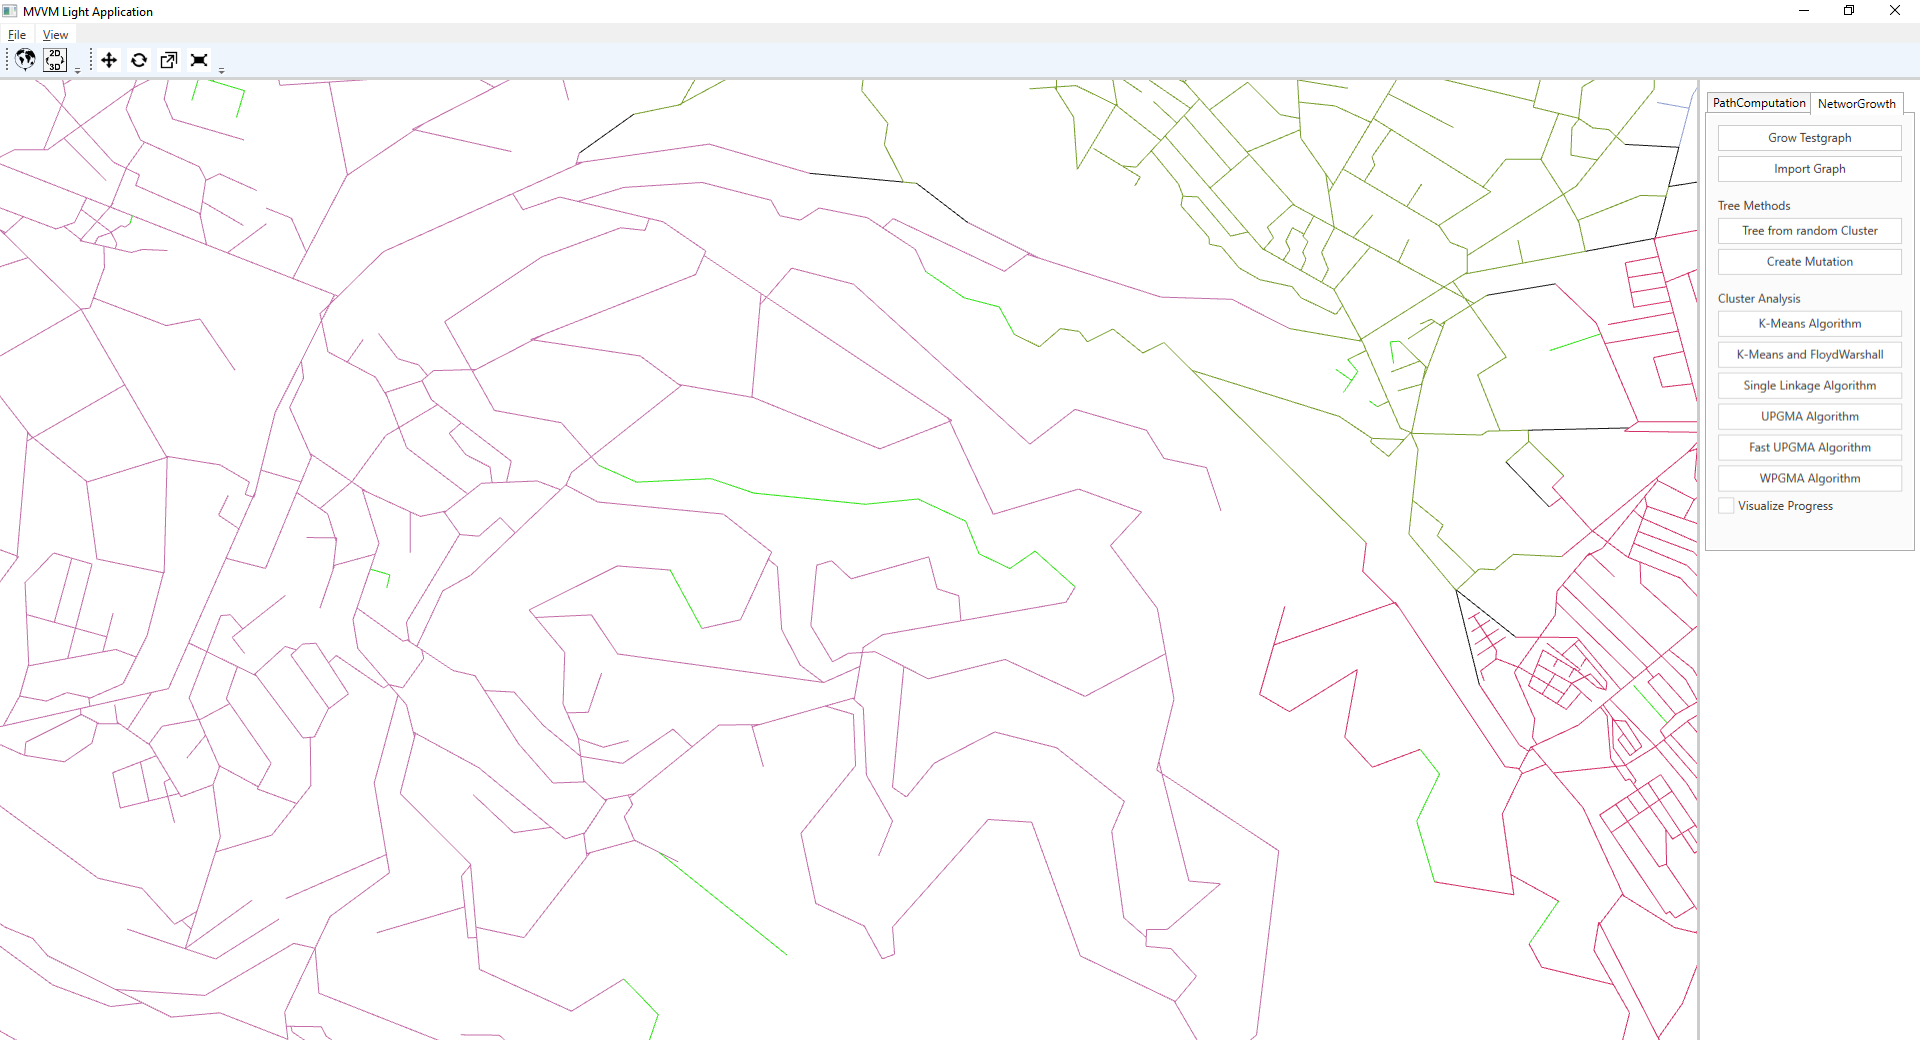
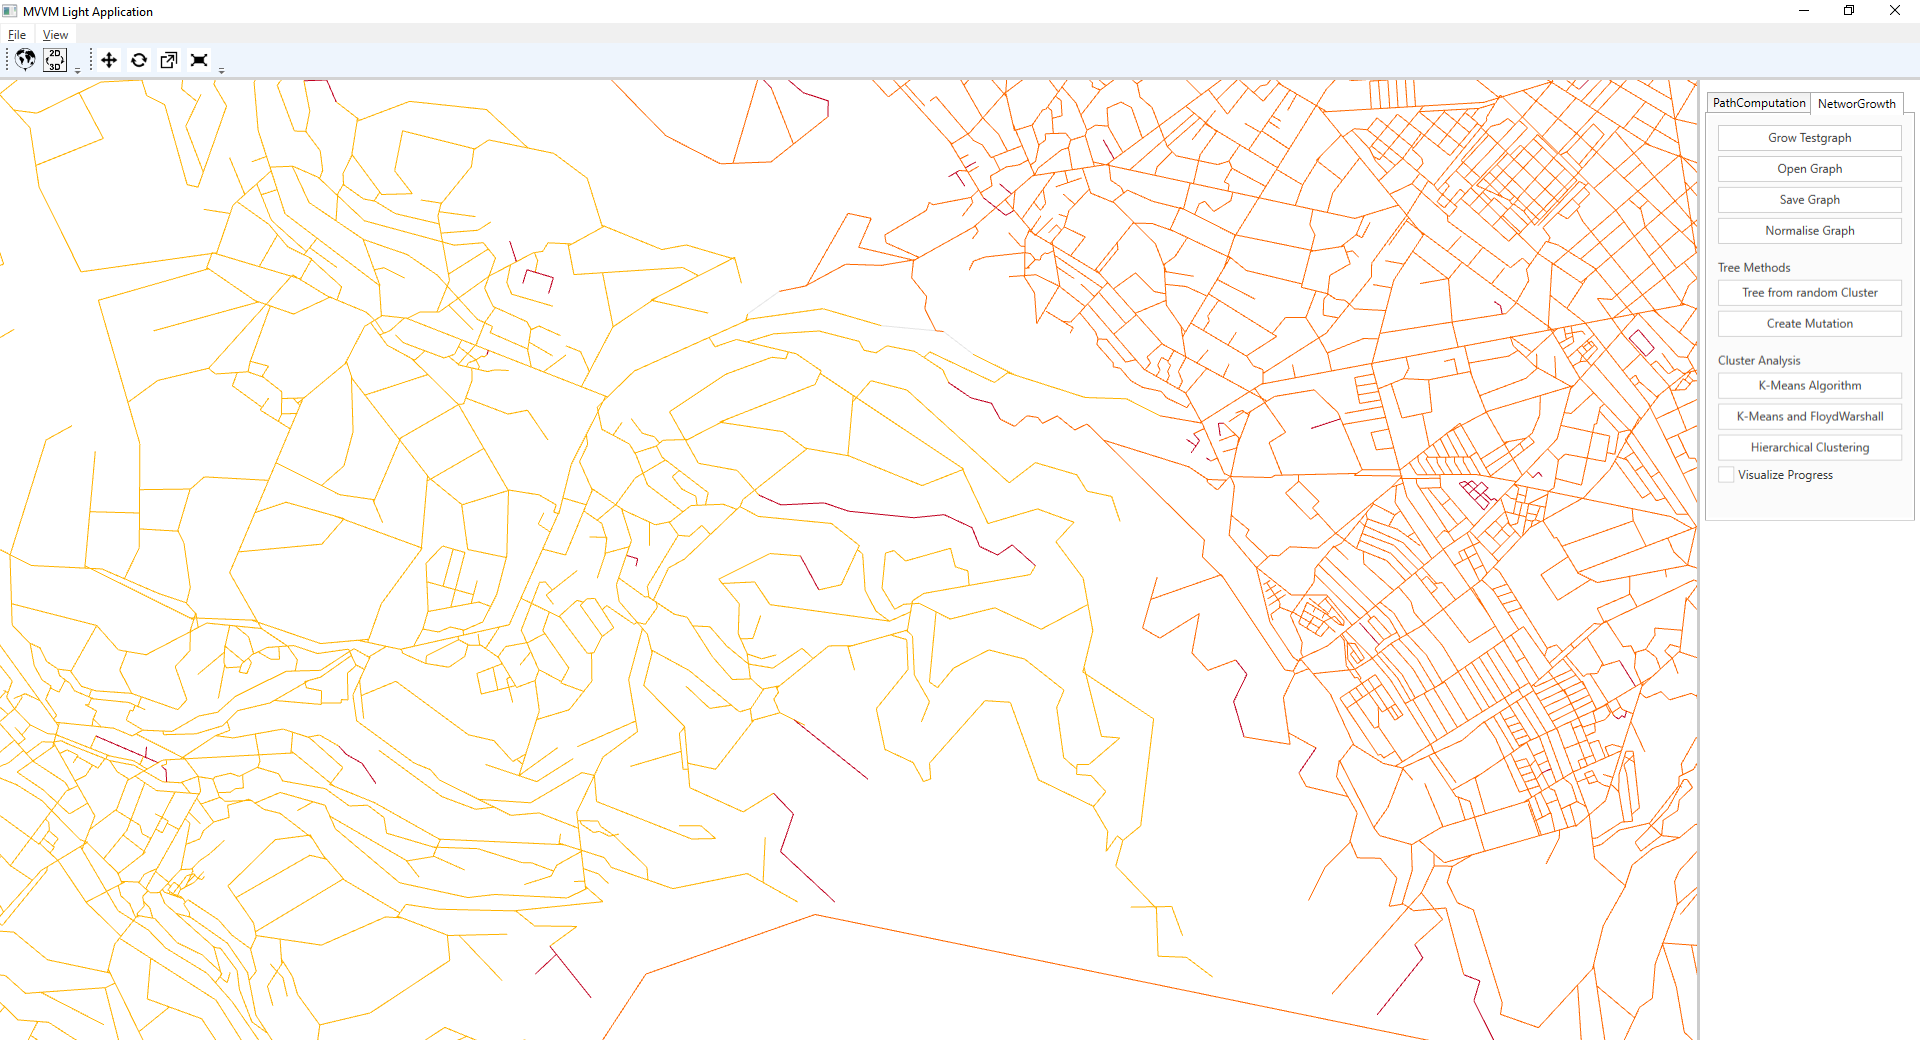
Worked on normalisation and colouring chapters

diff --git a/IP6 - Report Street Networks.tex b/IP6 - Report Street Networks.tex
@@ -368,28 +368,43 @@ CPlan is a tool written by the Department of Architecture of the ETH-Zurich. The
 The ETH-Zurich had already genetic optimizations algorithms based on trees. Unfortunately they had not a working solution to produce a tree from the existing graph. The new created tree generation produces a relative tree with absolute angles.
 
 \subsection{Normalising Street Networks}
-While testing clustering algorithms on the street network of Zurich one rough spot of this network was found: Not all streets, which lead to a junction are connected to it. As shown in figure \ref{fig:zuerich_error} there exist floating streets (highlighted in lime green). Both ends of these highlighted streets are not connected to the rest of the street network.
+While testing clustering algorithms on the street network of Zurich one rough spot of this network was found: Not all streets, which lead to a junction are connected to it. As shown in figure \ref{fig:zuerich_error} there exist floating streets (highlighted in purple). No end of any of these highlighted streets is connected to the rest of the street network.
 
 To handle those floating streets a network normalisation method was developed. The normalisation snaps (unites) all junctions and street end points, which are positioned close together, into one common junction. The result of this normalisation is shown in figure \ref{fig:zuerich_fixed}.
 
-\begin{figure}[!h]
-\begin{mdframed}[style=mdthight]
+\begin{figure}
     \centering
-    \includegraphics[width=\textwidth]{zuerich_street_error_cropped.png}
-\end{mdframed}
-    \caption{Floating streets in the street network of Zurich\label{fig:zuerich_error}}
+    \begin{subfigure}[b]{\textwidth}
+        \begin{mdframed}[style=mdthight]
+            \includegraphics[width=\linewidth]{zuerich_street_error_cropped.png}
+        \end{mdframed}
+        \caption{Floating streets in the street network of Zurich}
+        \label{fig:zuerich_error}
+    \end{subfigure}
+    \begin{subfigure}[b]{\textwidth}
+        \begin{mdframed}[style=mdthight]
+            \includegraphics[width=\linewidth]{zuerich_street_fixed_cropped.png}
+        \end{mdframed}
+        \caption{Normalised street network of Zurich}
+        \label{fig:zuerich_fixed}
+    \end{subfigure}
+    \caption{Street network of Zurich without (\ref{fig:zuerich_error}) and with (\ref{fig:zuerich_fixed}) normalisation}
 \end{figure}
 
-\begin{figure}[!h]
-\begin{mdframed}[style=mdthight]
-    \centering
-    \includegraphics[width=\textwidth]{zuerich_street_fixed_cropped.png}
-\end{mdframed}
-    \caption{Normalised street network of Zurich\label{fig:zuerich_fixed}}
-\end{figure}
-\subsection{Cluster Detection}
+\subsection{Cluster colouring}
+To visualize the clustering of a street network in this thesis, clusters are marked with different colours. This section describes the details of this cluster colouring.
 
-\subsubsection{Measurements}
+The result of each clustering algorithm, which was implemented in this thesis, represents a cluster as set of vertices. Each of these vertices is a junction in the street network. The visualisation only draws streets but not the junctions, as the intersection of streets are intuitively seen as junctions. To colour the different clusters the following approach was taken:
+
+\begin{itemize}
+    \item Streets which connect two vertices that are part of the same cluster are coloured with that clusters colour.
+    \item Streets which connect vertices of two distinct clusters are coloured grey.
+\end{itemize}
+
+\cite{colors:2006}
+
+
+\subsection{Measurements}
 \label{sec:measurements}
 
 \chapter{Conclusion}
